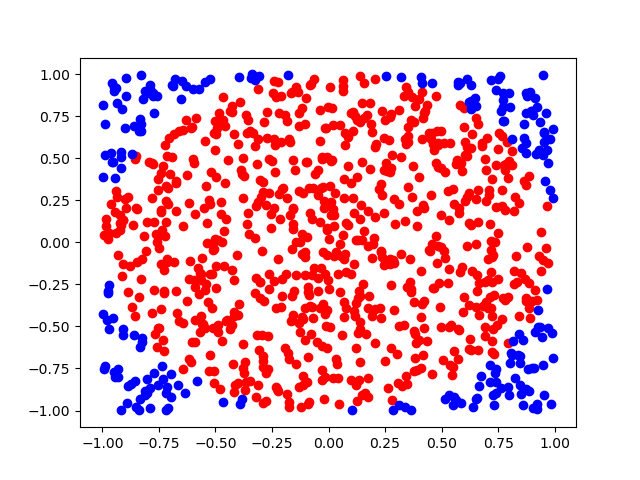
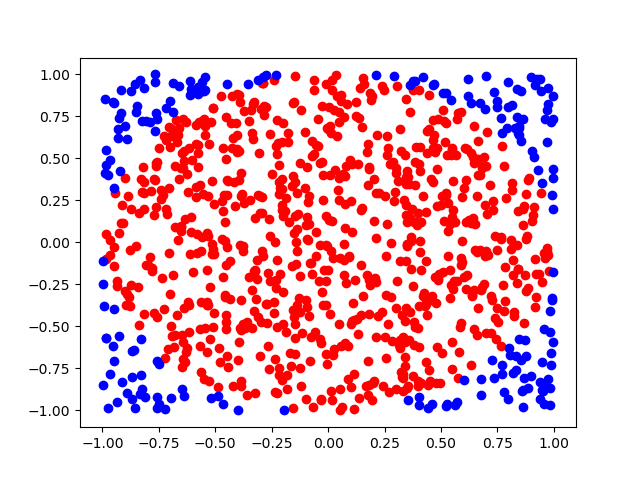
changed approximate_pi. much faster now. like MUCH faster

diff --git a/MA3.py b/MA3.py
@@ -17,22 +17,25 @@ import functools # for exc 1.2
 
 #random.seed(42) # make results reproducible
 
-def approximate_pi(n): # Ex1
-    #n is the number of points
-    # Write your code here
-    points = [[random.uniform(-1, 1), random.uniform(-1, 1)] for _ in range(n)] # generates n random points 
-    nc = [(x, y) for x, y in points if x**2 + y**2 < 1] # all points inside circle 
-    ns = [(x, y) for x, y in points if (x, y) not in nc] # all points outside circle
+def approximate_pi(n): 
+    nc_x, nc_y = [], []
+    ns_x, ns_y = [], []
 
-    # separate to x, y lists using unpacking. add fallback arguments in case a list is empty (probably no risk but...)
-    nc_x, nc_y =  zip(*nc) if nc else ([], []) # else unpacks emtpy list into two empty lists 
-    ns_x, ns_y = zip(*ns) if ns else ([], []) 
-    
-    plt.scatter(nc_x, nc_y, c='red')
+    for _ in range(n): 
+        x = random.uniform(-1, 1)
+        y = random.uniform(-1, 1)
+        if x**2 + y**2 < 1: 
+            nc_x.append(x)
+            nc_y.append(y)
+        else: # then outside circle 
+            ns_x.append(x)
+            ns_y.append(y)
+
+    plt.scatter(nc_x, nc_y, c='red') #plot points inside circle in red
     plt.scatter(ns_x, ns_y, c='blue')
-    plt.savefig(f"approx-pi_{n}")
+    plt.savefig(f'approx-pi_{n}')
 
-    return round(4*len(nc)/n, 6)
+    return round(4*len(nc_x)/n, 6) #len(nc_x) = len(nc_y) = n.o. of points inside circle. 
 
 def sphere_volume(n, d): #Ex2, approximation
     #n is the number of points
@@ -74,10 +77,11 @@ def sphere_volume_parallel2(n,d,np=10):
                         # equal to 1 process of size n. 
     
 def main():
-    # #Ex1
-    # dots = [1000, 10000, 100000]
-    # for n in dots:
-    #     approximate_pi(n)
+    #Ex1
+    print("Testing old approximate pi.")
+    dots = [1000, 10000, 100000]
+    for n in dots:
+        print(approximate_pi(n))
     # #Ex2
     # n = 100000
     # d = 2
@@ -89,21 +93,21 @@ def main():
     # sphere_volume(n,d)
     # print(f"Actual volume of {d} dimentional sphere = {hypersphere_exact(d)} m^{d} ")
 
-    #Ex3
-    n = 100000
-    d = 11
-    print("Testing excercise 3\n")
-    start = pc()
-    for y in range (10):
-        sphere_volume(n,d)
-    stop = pc()
-    print(f"Ex3: Sequential time of {d} and {n}: {round(stop-start, 3)} seconds\n")
-    print("What is parallel time?")
-    start = pc() 
-    sphere_volume_parallel1(n, d)
-    stop = pc()
-    print(f"Parallel time of {d} and {n}: {round(stop-start, 3)} seconds\n")
-    print("Test complete.")
+    # #Ex3
+    # n = 100000
+    # d = 11
+    # print("Testing excercise 3\n")
+    # start = pc()
+    # for y in range (10):
+    #     sphere_volume(n,d)
+    # stop = pc()
+    # print(f"Ex3: Sequential time of {d} and {n}: {round(stop-start, 3)} seconds\n")
+    # print("What is parallel time?")
+    # start = pc() 
+    # sphere_volume_parallel1(n, d)
+    # stop = pc()
+    # print(f"Parallel time of {d} and {n}: {round(stop-start, 3)} seconds\n")
+    # print("Test complete.")
 
     # #Ex4
     # n = 1000000
